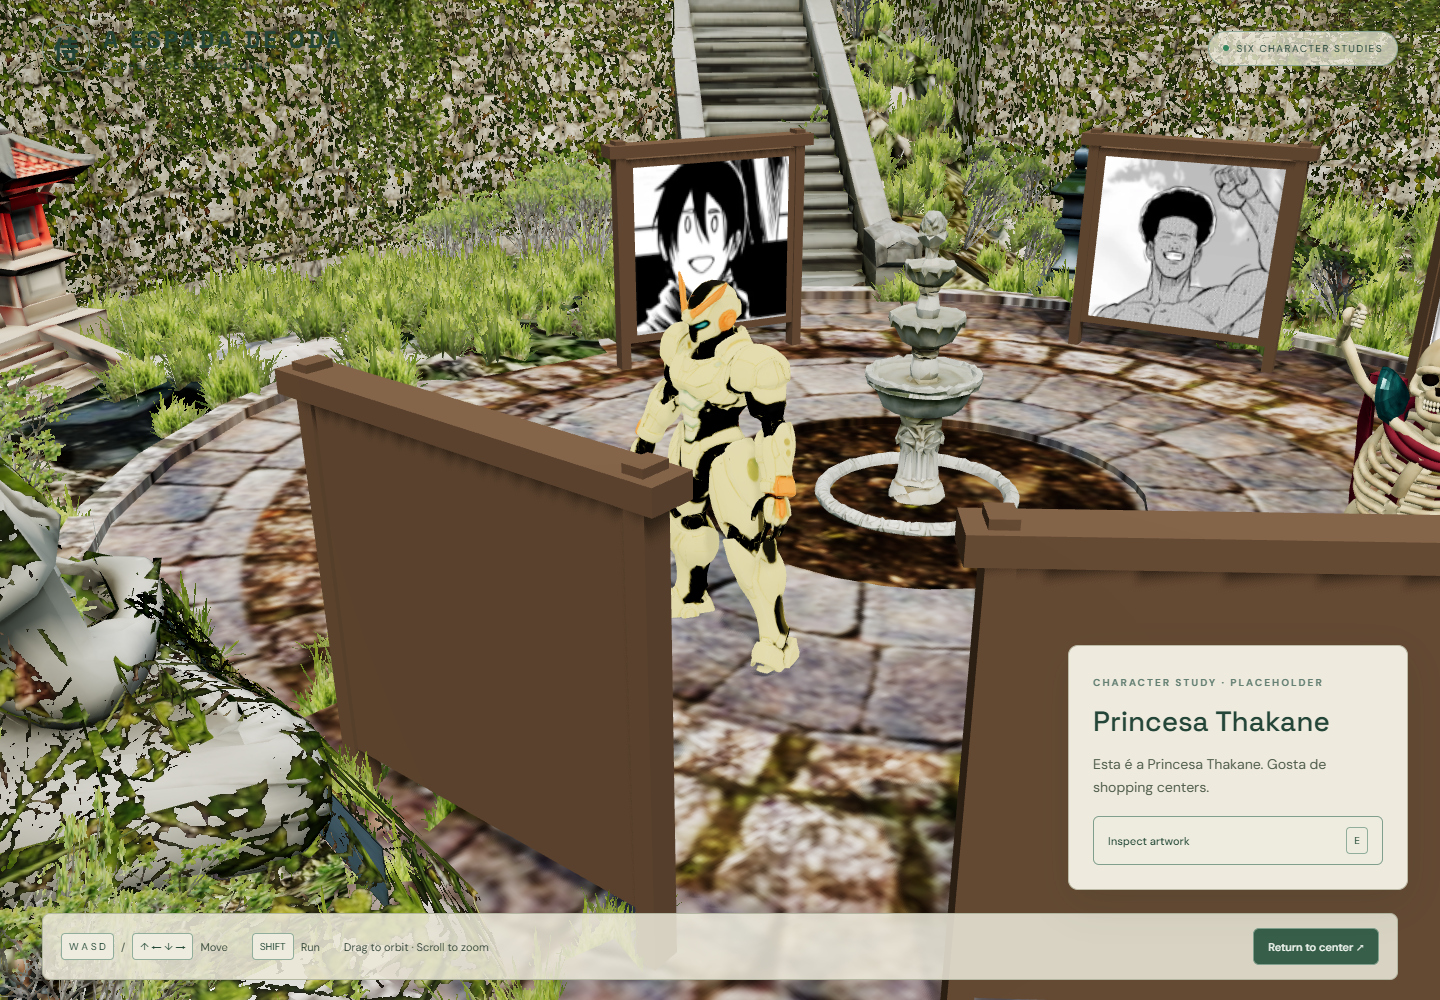
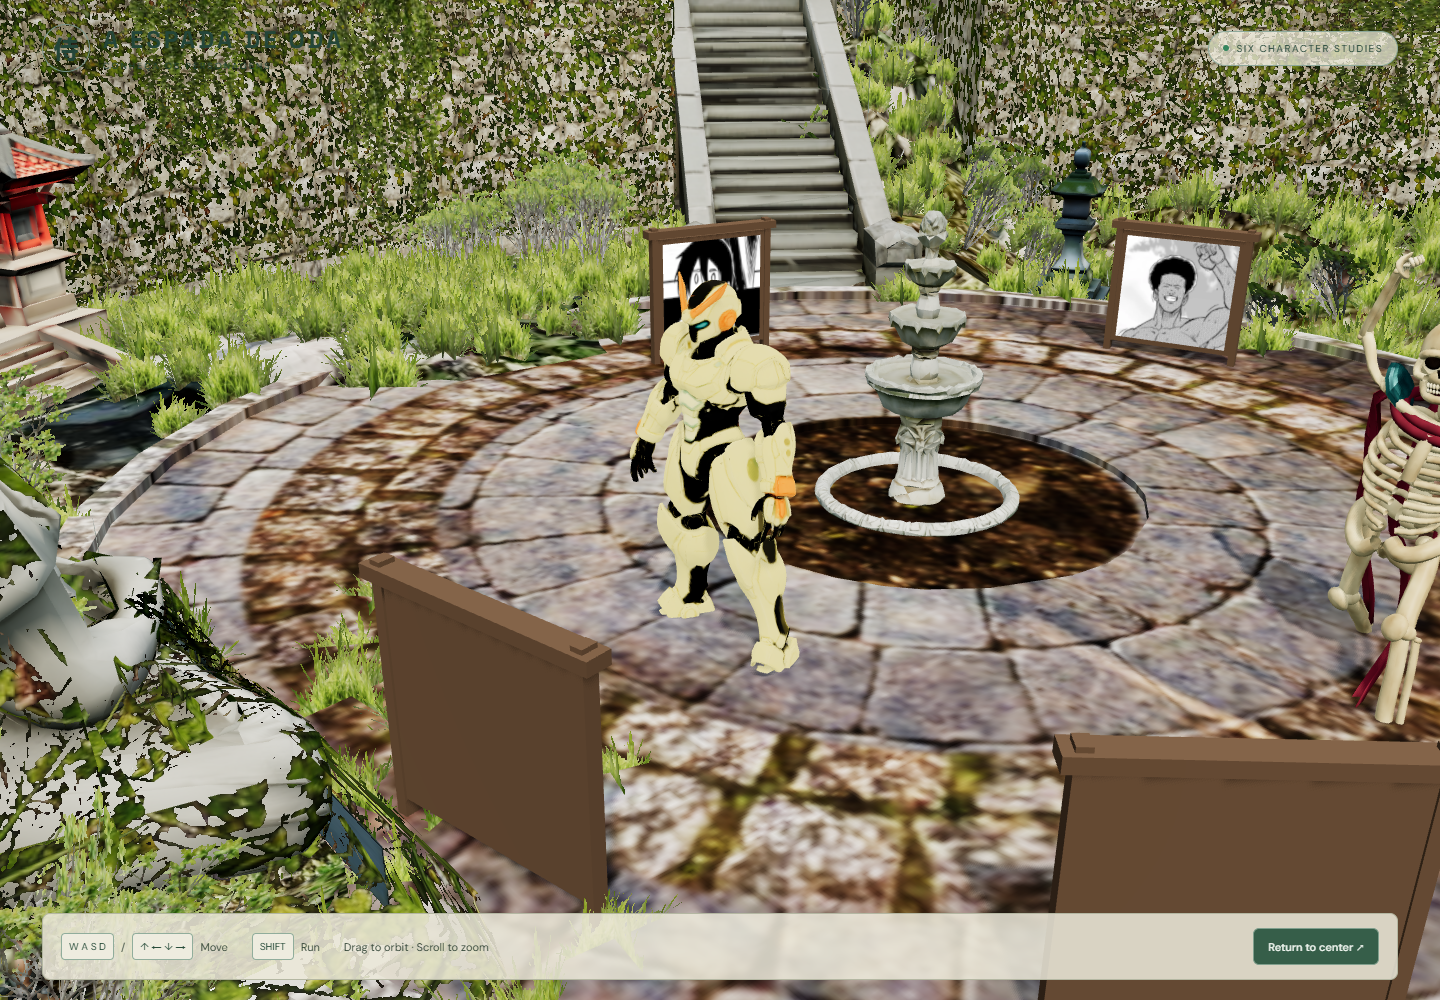
changes scenario2

diff --git a/src/courtyard.ts b/src/courtyard.ts
@@ -1,7 +1,7 @@
 import * as THREE from 'three'
 import { GLTFLoader } from 'three/addons/loaders/GLTFLoader.js'
 
-const displayScale = 0.7
+const displayScale = 0.45
 const displayHalfWidth = 1.8 * displayScale + 0.35
 const displayHalfDepth = 0.6 * displayScale + 0.35
 
@@ -109,7 +109,7 @@ export function nearestExhibit(position: THREE.Vector3, current = -1) {
     const front = (position.x - exhibit.position.x) * Math.sin(exhibit.rotation)
       + (position.z - exhibit.position.z) * Math.cos(exhibit.rotation)
     const nextDistance = position.distanceTo(exhibit.position)
-    if (front > displayHalfDepth && nextDistance < (index === current ? 2.8 : 2.4) && nextDistance < distance) {
+    if (front > displayHalfDepth && nextDistance < (index === current ? 2.1 : 1.8) && nextDistance < distance) {
       nearest = index
       distance = nextDistance
     }
